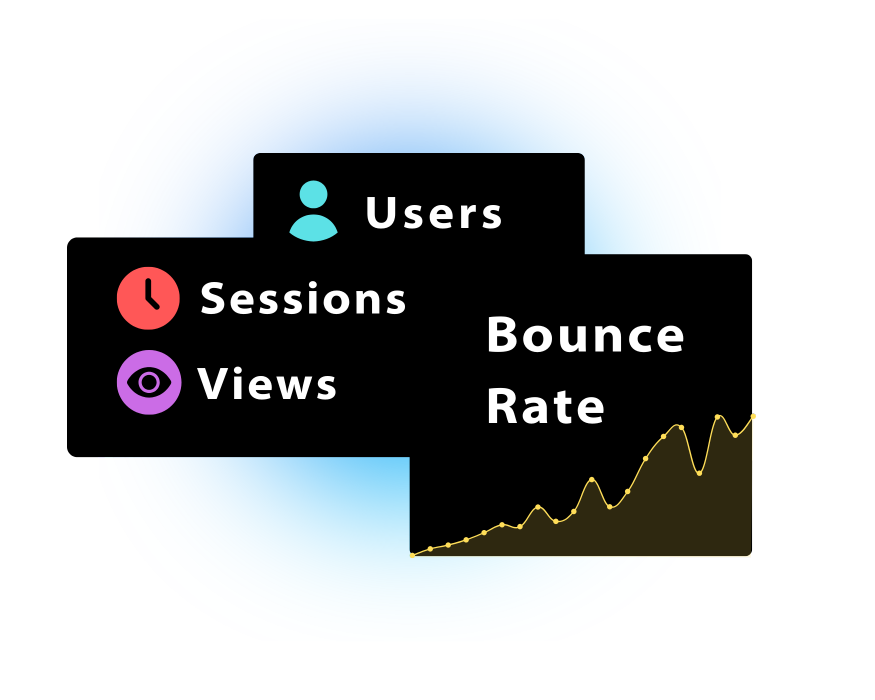
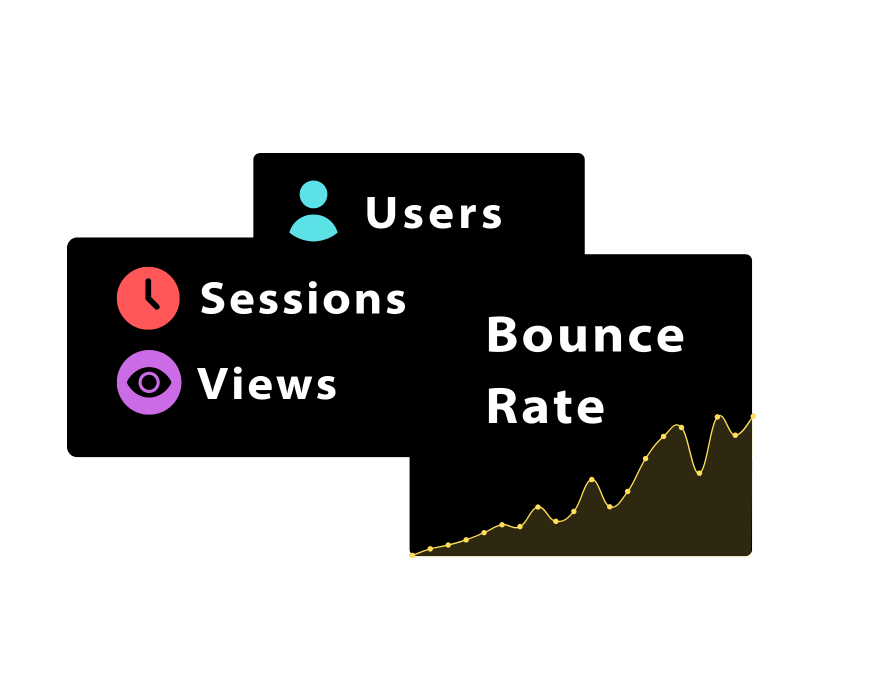
landing images updates

Changed region(s): [[0.216, 0.12, 0.648, 0.36], [0.2469, 0.63, 0.5554, 0.84], [0.648, 0.24, 0.7406, 0.36]]

diff --git a/app/(landing)/components/hero.tsx b/app/(landing)/components/hero.tsx
@@ -22,7 +22,7 @@ const Hero = () => {
         <CtaButton styles="mt-4" />
       </div>
 
-      <div className="flex-1 flex justify-center items-center md:my-0 my-10 relative">
+      <div className="flex-1 flex justify-center items-center md:my-0 my-10 relative min-w-[300px] md:min-w-[500px] lg:min-w-[700px]">
         <img
           src="/assets/hero.png"
           alt="hero"
@@ -30,7 +30,7 @@ const Hero = () => {
           height="420"
           className="w-[100%] h-[100%] relative z-[5]"
         />
-        <div className="absolute z-[0] w-[50%] h-[50%] right-[16rem] bottom-[8rem] blue__gradient" />
+        <div className="absolute z-[0] w-[40%] h-[40%] right-[15rem] bottom-[12rem] blue__gradient" />
       </div>
     </section>
   );

diff --git a/app/(landing)/components/performance.tsx b/app/(landing)/components/performance.tsx
@@ -12,7 +12,12 @@ const Performance = () => (
     </div>
 
     <div className="flex-1 flex justify-center items-center md:ml-10 ml-0 md:mt-0 mt-10 relative">
-      <img src="/assets/feat2.png" alt="Feat 2" className="w-[100%] h-[100%]" />
+      <img
+        src="/assets/feat2.png"
+        alt="Feat 2"
+        className="w-[100%] h-[100%] z-[1]"
+      />
+      <div className="absolute z-[0] w-[30%] h-[30%] right-[14rem] bottom-[13rem] blue__gradient" />
     </div>
   </section>
 );

diff --git a/app/(landing)/components/analytics.tsx b/app/(landing)/components/analytics.tsx
@@ -9,6 +9,7 @@ const Analytics = () => (
         alt="feature 1"
         className="w-[100%] h-[100%] relative z-[5]"
       />
+      <div className="absolute z-[0] w-[40%] h-[40%] right-[12rem] bottom-[13rem] blue__gradient" />
     </div>
 
     <div className="flex-1 flex justify-center items-start flex-col">

diff --git a/app/globals.css b/app/globals.css
@@ -186,7 +186,7 @@ h6 {
     background: linear-gradient(
       180deg,
       rgba(188, 165, 255, 0) 0%,
-      #214d76 100%
+      #2a87de 100%
     );
     filter: blur(123px);
   }
